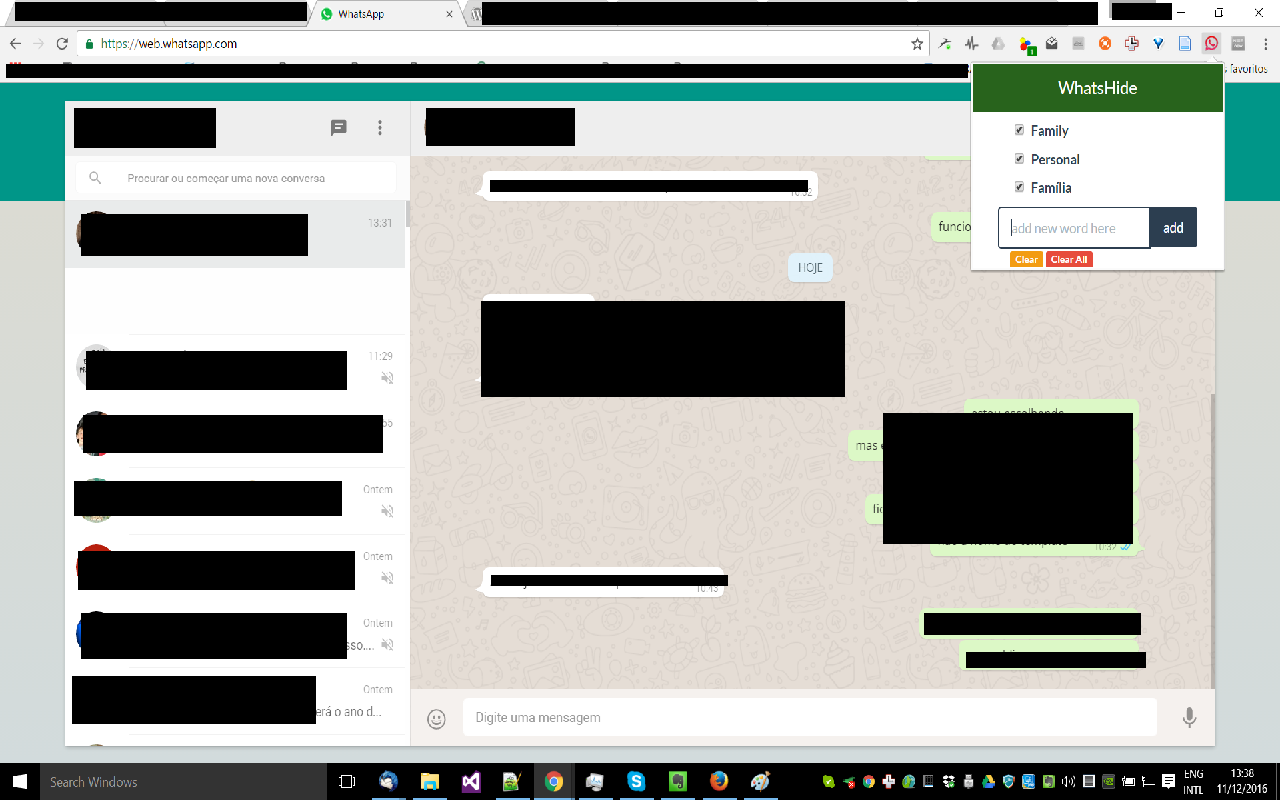
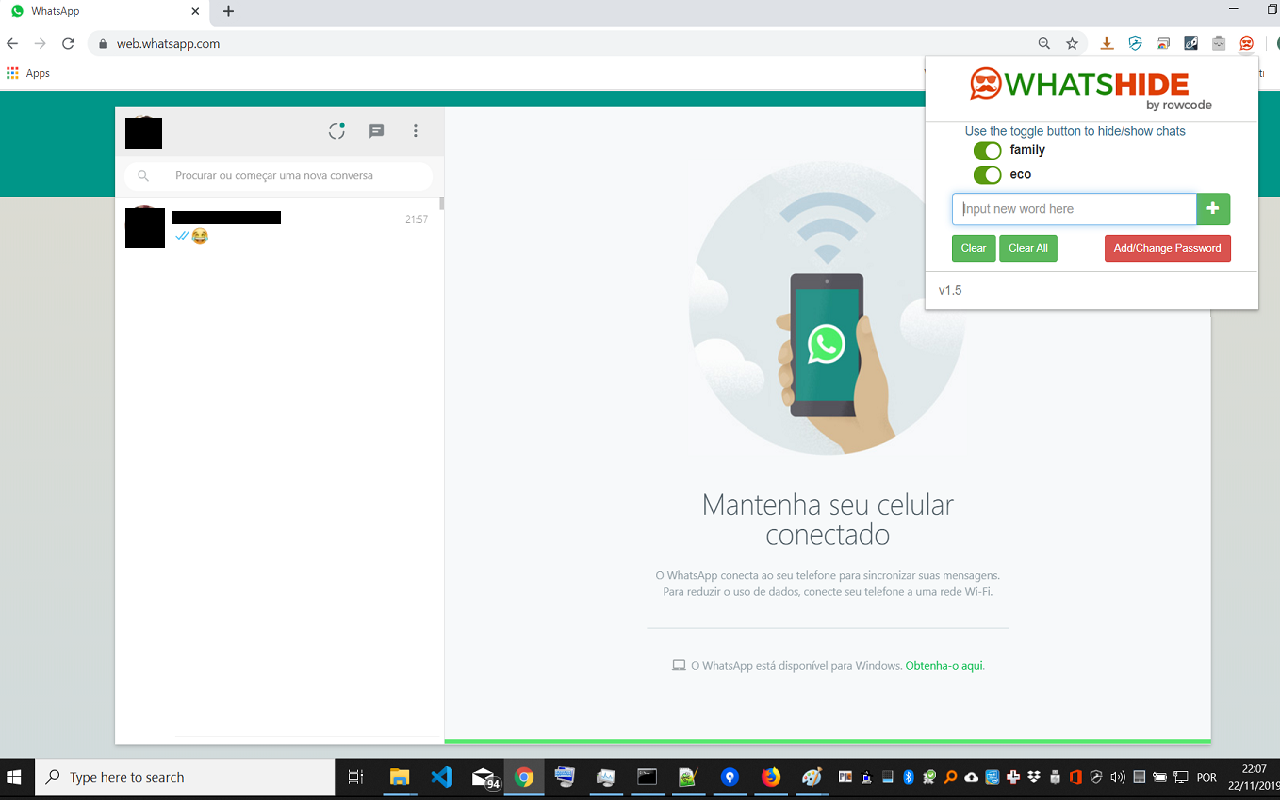
Version 1.5

diff --git a/popup.html b/popup.html
@@ -74,7 +74,7 @@
     <div class="bot-part col-sm-12">
         <!-- <span class="text-muted">
 			use este espaco para fale-conosco, duvidas para, doe pra gente etc</span> -->
-			<span class="text-muted">v1.4</span> 
+			<span class="text-muted">v1.5</span> 
     </div>
 </body>
 

diff --git a/README.md b/README.md
@@ -1,2 +1,2 @@
 # WhatsHide
-This extension hide Unwanted chats of WhatsApp Web
+This extension hides private chats of WhatsApp Web
